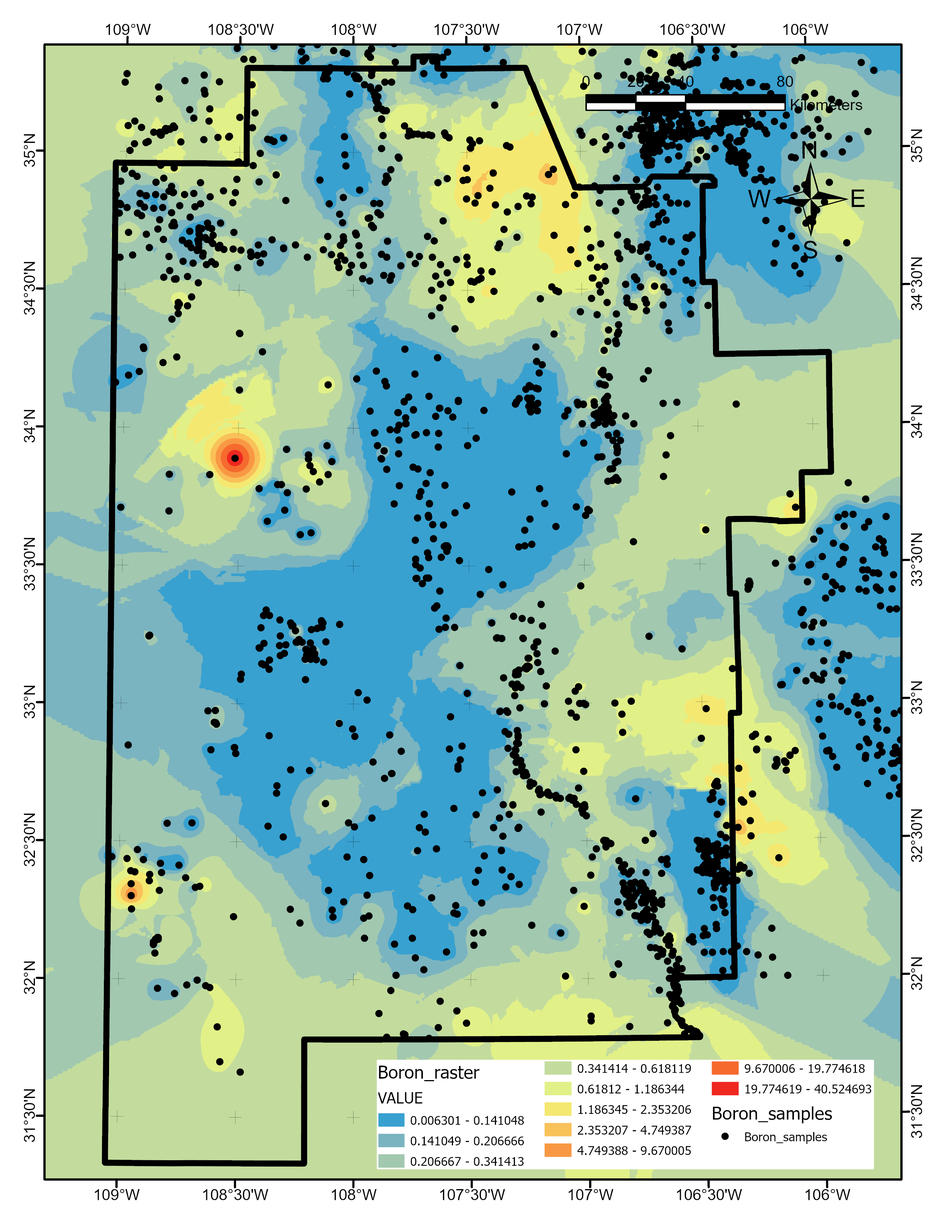
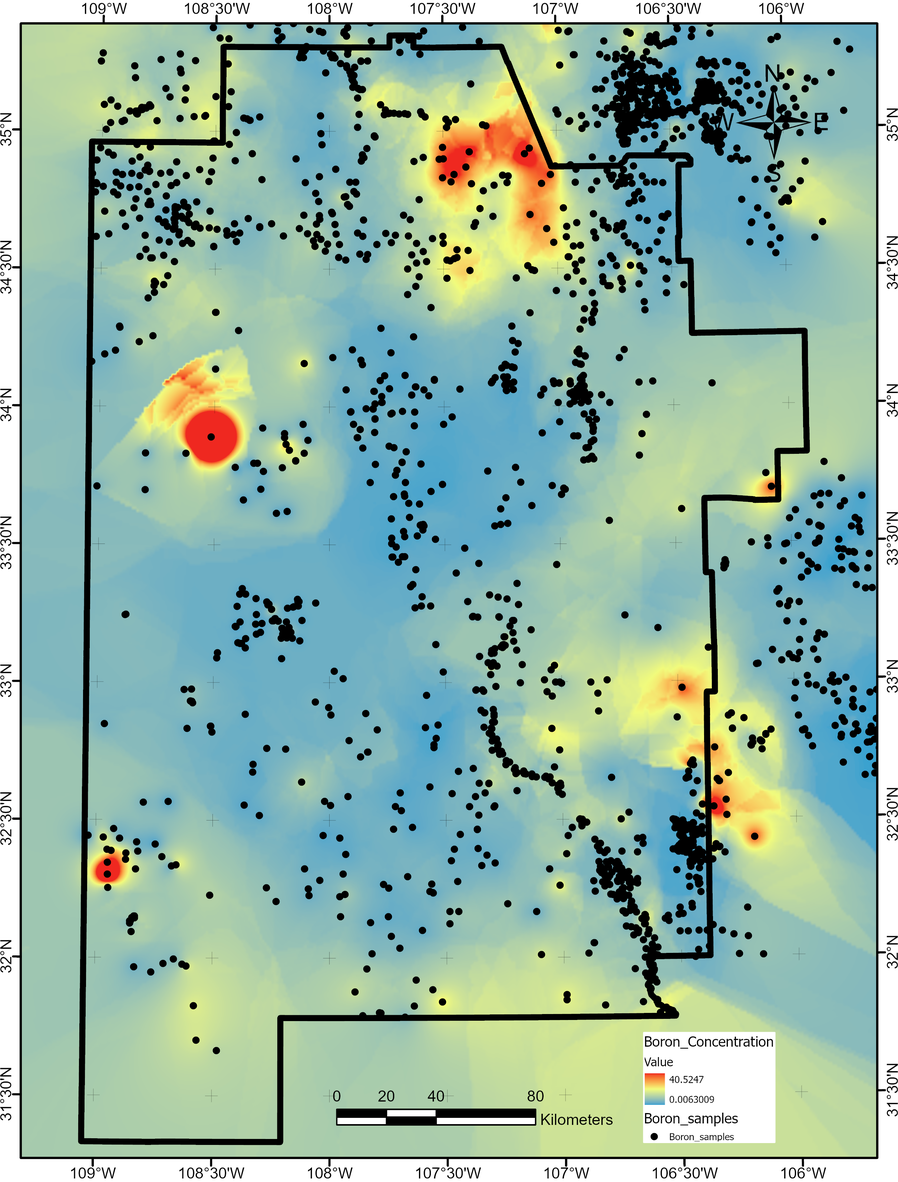
added more features to the data prep section.

diff --git a/templates/chap3.tex b/templates/chap3.tex
@@ -50,8 +50,8 @@ The University of Oregon PRISM Climate Group hosts regularly-updated spatial dat
 
 \begin{figure}[!htp]
 \centering
-\includegraphics[scale=.6]{Figure-AvgAirTemp}
-\caption[Average air temperature data layer]{Average air temperature data layer. Units are degrees Celsius. Data retrieved from \protect\citep{prism_prism_2021}.}
+\includegraphics[scale=.50]{Figure-AvgAirTemp}
+\caption[Average air temperature data layer]{Average air temperature data layer. Units are in degrees Celsius. Data retrieved from \protect\citep{prism_prism_2021}.}
 \label{fig:feat_airtemp}
 \end{figure}
 
@@ -61,8 +61,8 @@ The University of Oregon PRISM Climate Group also compiles 30-year normals for a
 
 \begin{figure}[!htp]
 \centering
-\includegraphics[scale=.6]{Figure-AvgPrecip}
-\caption[Average precipitation data layer]{Average precipitation data layer in 800 m resolution. Units are millimeters. Data retrieved from \protect\citep{prism_prism_2021}.}
+\includegraphics[scale=.50]{Figure-AvgPrecip}
+\caption[Average precipitation data layer]{Average precipitation data layer in 800 m resolution. Units are in millimeters. Data retrieved from \protect\citep{prism_prism_2021}.}
 \label{fig:feat_precip}
 \end{figure}
 
@@ -72,29 +72,145 @@ Following the procedure of \citeauthor{pepin_new_2018} (\citeyear{pepin_new_2018
 
 \begin{figure}[h!]
 \centering
-\includegraphics[scale=.6]{Figure-BasementDepth}
-\caption[Basement depth data layer]{Basement depth data layer. Units are meters. Layer based on basement elevation raster from \protect\citep{bielicki_hydrogeolgic_2015}.}
+\includegraphics[scale=.50]{Figure-BasementDepth}
+\caption[Basement depth data layer]{Basement depth data layer. Units are in meters. Layer based on basement elevation raster from \protect\citep{bielicki_hydrogeolgic_2015}.}
 \label{fig:feat_basementdepth}
 \end{figure}
 
 \subsubsection{Boron Concentration}
 
-Measurements of boron concentration were originally assembled by \citeauthor{bielicki_hydrogeolgic_2015} (\citeyear{bielicki_hydrogeolgic_2015}) from nine sources ranging from USGS records to student dissertations. These data were downloaded from the OpenEI submission \citep{kelley_geothermal_2015} and imported into ArcGIS, then merged into a single dataframe of 5686 measurements within the broader Extent Polygon bounds to avoid edge effects within the AOI. The inconsistent spatial distribution of the data and sometimes significant variation among overlapping values from different measurement years created a unique challenge for making a representative GIS layer to use for analysis. An initial attempt to fit and interpolate the data using tuned Gaussian Process models created feature layers with too much local structure and little character away from the input data points. The ArcGIS \textit{Empirical Bayes Kriging} routine was selected instead due to its unique characteristics. For the final layer (Figure \ref{fig:feat_boron}), EBK was applied with the Empirical data transformation type, a maximum of 100 points in each local model, 100 simulated semivariograms with K-Bessel model type, and a standard circular search neighborhood with a radius of 1.1957 (auto-generated), minimum of 10 neighbors, and maximum of 15 neighbors. The output grid cell size was set to 0.01 degrees. Of important note: the calculation option to include all coincident data was selected, so all overlapping measurements were considered in generating the final layer.
+Measurements of boron concentration were originally assembled by \citeauthor{bielicki_hydrogeolgic_2015} (\citeyear{bielicki_hydrogeolgic_2015}) from multiple sources ranging from USGS records to student dissertations. These data were downloaded from the OpenEI submission \citep{kelley_geothermal_2015} and merged together using ArcGIS and Python to create a single dataframe of 5686 measurements, all within the broader Extent Polygon bounds to avoid surface creation edge effects within the tighter AOI. The inconsistent spatial distribution of the data and sometimes significant variation among overlapping values from different measurement years created a unique challenge for making a representative GIS layer to use for analysis. An initial attempt to fit and interpolate the data using tuned Gaussian Process models created feature layers with too much local structure and little character away from the input data points. The ArcGIS \textit{Empirical Bayes Kriging} routine was selected instead due to its unique characteristics. For the final layer, EBK was applied with the Empirical data transformation type, a maximum of 100 points in each local model, 100 simulated semivariograms with K-Bessel model type, and a standard circular search neighborhood with a radius of 1.1957 (auto-generated), minimum of 10 neighbors, and maximum of 15 neighbors. The output grid cell size was set to 0.01 degrees. Of important note: the calculation option to include all coincident data was selected, so all overlapping measurements were considered in generating the final layer (Figure \ref{fig:feat_boron}).
 
-\begin{figure}[h!]
+\begin{figure}[!htp]
 \centering
-\includegraphics[scale=.6]{Figure-Boron}
-\caption[Boron concentration data layer]{Boron concentration data layer. Units in ppm or mg/L. Black dots indicate sample locations in complete data set from \protect\citep{bielicki_hydrogeolgic_2015}.}
+\includegraphics[scale=.50]{Figure-Boron}
+\caption[Boron concentration data layer]{Boron concentration data layer. Units are in ppm or mg/L. Black dots indicate sample locations in complete data set from \protect\citep{bielicki_hydrogeolgic_2015}.}
 \label{fig:feat_boron}
 \end{figure}
 
 \subsubsection{Crustal Thickness}
 
-In the absence of a recent 3D seismic survey constraining crustal thickness in the study area, the 2.5D regional map published by \citeauthor{keller_comparative_1991} (\citeyear{keller_comparative_1991}) was used for the crustal thickness feature layer. Similar to the procedure described in \citep{pepin_new_2018}, the Keller map was georeferenced in ArcGIS, and thickness contours were manually digitized as polylines. These polylines continued slightly beyond the AOI boundary to ensure proper constraints for surface creation without artifacts near the AOI edges. The ArcGIS function \textit{Feature to 3D by Attribute} converted the polylines into 3D contours, and \textit{Topo to Raster} generated a continuous final grid (Figure \ref{fig:feat_crust}). Since the Keller map was derived from low-resolution seismic lines from the 1960s-1980s, the result is a very low frequency approximation for crustal thickness variations associated with the CP and RGR. As such, \textit{Topo to Raster} used an output cell size of 0.025 degrees. Other parameters include: margin in the cells of 20, smallest z value for interpolation of 25, largest z value for the interpolation of 55, Enforce selection for drainage enforcement, and maximum iterations of 20.
+In the absence of a more recent seismic study constraining variations in crustal thickness across the study area, the 2.5D regional map published by \citeauthor{keller_comparative_1991} (\citeyear{keller_comparative_1991}) was to construct the crustal thickness feature layer. Similar to the procedure described in \citep{pepin_new_2018}, the Keller map was georeferenced in ArcGIS, and thickness contours were manually digitized as polylines. These polylines continued slightly beyond the AOI boundary to ensure proper constraints for surface creation without artifacts near the AOI edges. The ArcGIS function \textit{Feature to 3D by Attribute} converted the polylines into 3D contours, and \textit{Topo to Raster} interpolated the contours into a continuous final grid (Figure \ref{fig:feat_crust}). Since the Keller map was derived from low-resolution seismic lines from the 1960s-1980s, the result is a very low frequency approximation for crustal thickness variations associated with the CP and RGR. As such, \textit{Topo to Raster} a larger cell size of 0.025 degrees was used. Other parameters choices include: margin in the cells of 20, smallest z value for interpolation of 25, largest z value for the interpolation of 55, Enforce selection for drainage enforcement, and maximum iterations of 20.
 
 \begin{figure}[!htp]
 \centering
-\includegraphics[scale=.6]{Figure-CrustalThickness}
-\caption[Crustal thickness data layer]{Crustal thickness data layer. Units in kilometers. Black lines refer to contours digitized from \protect\citep{keller_comparative_1991}.}
+\includegraphics[scale=.50]{Figure-CrustalThickness}
+\caption[Crustal thickness data layer]{Crustal thickness data layer. Units are in kilometers. Black lines refer to contours digitized from \protect\citep{keller_comparative_1991}.}
 \label{fig:feat_crust}
+\end{figure}
+
+\subsubsection{Drainage Density}
+
+Drainage polyline data comes from the \citep{bielicki_hydrogeolgic_2015} PFA OpenEI submission \citep{kelley_geothermal_2015}. The data were downloaded and imported into ArcGIS, then compared to the DEM later for quality control. A couple of methods were attempted in order to transform this feature into a continuous-valued layer with full map coverage. First, the polylines were converted to points with 500 m sampling. This point set was loaded into a Python script, which used a grid search routine to determine the best radius for a Gaussian kernel density operator. Ten-fold cross validation was employed, which splits the data into 10 subsets and interchangeably trains on 9, tests on one to get an average performance score. Based on a calculation of the negative log likelihood, the best radius was found to be 45,600 m. However, when the kernel density operation is applied to the data with this radius, the map shows a central blob of high density, which falls off toward the sides of the survey. With such a high radius, edge effects come into play since no drainage polylines were available outside of the AOI boundary. Furthermore, the conversion of line data to points for this method disregards the spatial relationships of the connected line data. The ArcGIS version of kernel density uses an adapted quartic kernel function described by \citep{silverman_density_2018} to fit a smoothly-curved surface over polylines with a maximum value over the line and sides that taper to zero based on the search radius. Default search radius values come from a bandwidth calculation, also based on Silverman book \citep{esri_how_2021,silverman_density_2018}. Densities are calculated as the cumulative sum of the overlapping curve fits for all polylines in a data set. This method operates on the polyline features directly and results in a map with much more drainage variation within the AOI. The final drainage density layer (Figure \ref{fig:feat_drainage}) was generated using this methodology with an output cell size of 0.0025 degrees and an auto-generated search radius of 0.2716.
+
+\begin{figure}[!htp]
+\centering
+\includegraphics[scale=.50]{Figure-Drainage}
+\caption[Drainage density data layer]{Drainage density data layer. Units are in degrees/square degrees. Blue lines show the drainage polyline data set from \protect\citep{bielicki_hydrogeolgic_2015}.}
+\label{fig:feat_drainage}
+\end{figure}
+
+\subsubsection{Earthquake Density}
+
+Following the procedure outlined by \citeauthor{pepin_new_2018} (\citeyear{pepin_new_2018}), an earthquake data set for southwest New Mexico was created by combining historical earthquake catalogs for 1869-1998 \citep{sanford_earthquake_2002}, 1999-2004 \citep{sanford_earthquake_2006}, and 2005-2009 \citep{pursley_earthquake_2013} with data pulled from the USGS Earthquake catalog \citep{usgs_earthquake_2021} through to January 2021. All events were combined into a single dataframe in Python, and event duplicates were removed. The final catalog, cropped to the Extent Polygon boundary, consists of 2539 events spanning 1962-2020. This point set was loaded into a KDE Python script, which used a grid search routine to determine the best radius for a Gaussian kernel density operator. Ten-fold cross validation was employed, which splits the data into 10 subsets and then interchangeably trains on 9 and tests on one to get an average performance score. The maximum negative log likelihood indicates a best radius value of 11,600 m (Figure \ref{fig:EQ_cv}). 
+
+\begin{figure}[!htp]
+\centering
+\includegraphics[scale=.50]{templates/images/Figure-Earthquake_kde_gridsearchcv_result.png}
+\caption[Earthquake density parameter tuning]{Cross-validation results for earthquake KDE. Red dashed line indicates maximum negative log likelihood value identifying the best choice for kernel radius.}
+\label{fig:EQ_cv}
+\end{figure}
+
+KDE values calculated at each fishnet point location were loaded into ArcGIS, and \textit{Kriging} was used to generate a final surface for plotting purposes. textit{Kriging} parameters included Ordinary kriging method, Spherical semivariogram model, lag size of 1e-6, and a variable search radius with 12-point requirement. The final earthquake density map (Figure \ref{fig:feat_EQ_density}) appears similar to Figure 3.10 in (Pepin, 2018). 
+
+\begin{figure}[!htp]
+\centering
+\includegraphics[scale=.50]{Figure-EarthquakeDensity}
+\caption[Earthquake density data layer]{Earthquake density data layer. Units are in log density (points/\(km^2\)). Block dots indicate earthquake locations.}
+\label{fig:feat_EQ_density}
+\end{figure}
+
+\subsubsection{Gamma Ray Dose Rate}
+
+Aerial gamma-ray surveys conducted across the United States in the late 1970-1980s allowed for the construction of Potassium concentration (K, in percent K), Uranium concentration (eU, in ppm), and Thorium concentration (eTh in ppm) maps, which relate to mineralogy, lithology, and hence, stratigraphy. These measures collectively define the absorbed dose rate, which can be calculated from the following equation: \( D = 13.2 K + 5.48 eU + 2.72 eTh \) \citep{duval_terrestrial_2005}.
+
+The absorbed dose rate for West Central USA was downloaded from the USGS Open-File Report 2005-1413 site \citep{duval_terrestrial_2005}, loaded into ArcGIS, and cropped to the Extent Polygon bounds. A data gap in the vicinity of the White Sands Missile Range to the southeast of the study area necessitated layer interpolation using kriging. Grid values were extracted using the fishnet of points, then passed through the ArcGIS \textit{Kriging} function for the final layer (Figure \ref{fig:feat_gamma}) with the following parameters: Ordinary kriging method, Spherical semivariogram model, auto-generated lag size of 0.096969, and a variable search radius with a 4-point requirement.
+
+\begin{figure}[!htp]
+\centering
+\includegraphics[scale=.50]{templates/images/Figure-AbsorbedDoseRate.png}
+\caption[Absorbed dose rate data layer]{Absorbed dose rate data layer. Units are in nanoGrays/hour (nGy/hr). Original data from USGS Open-File Report 2005-1413 \protect\citep{duval_terrestrial_2005}}.
+\label{fig:feat_gamma}
+\end{figure}
+
+\subsubsection{Geodetic Strain Rate}
+
+GPS stations worldwide record local movements in the Earth’s crust. These movements can highlight inflation or subsidence of the surface, fault motions, or plate tectonic activity. The spatial derivative of crustal velocities is termed the strain rate, which gives an indication of the accumulation of strain in an area. More concretely, it defines the speed with which the crust is deforming, and can be treated as a proxy for earthquake potential since slip occurs due to the accumulation of strain \citep{gem_strain_2014}. The Global Strain Rate Model (GSRM) v.2.1 provides a model for strain rate based on over 22,000 measurements from over 18,000 locations around the world \citep{kreemer_geodetic_2014}. The output of this model was downloaded from the University of Nevada Reno Geodetic Laboratory host site \citep{kreemer_corne_global_2020}. GSRM describes elements of the full strain tensor at a resolution 0.1 degrees. The magnitude or second invariant of the strain tensor is defined as \citep{kreemer_geodetic_2014}:
+
+\begin{equation}\label{eq:strainratemagnitude}
+\left\lVert\dot{\epsilon}\right\rVert = \sqrt{\dot{\varepsilon}_{\phi\phi}^2+\dot{\varepsilon}_{\theta\theta}^2+2\dot{\varepsilon}_{\phi\theta}^2}
+\end{equation}
+
+Due to the size of the model file and complexity of this calculation, the data was first loaded into Python, cropped to the Extent Polygon bounds, and the strain rate magnitude was calculated for each point. These data were then loaded into ArcGIS and gridded using the \textit{Spline} function for a smooth interpolation of the coarser GSRM grid. The final layer (Figure \ref{fig:feat_strain}) was created using \textit{Spline} parameters: Regularized type, weight of 0.1, a 4-point requirement, and an output cell size of 0.025 degrees.
+
+\begin{figure}[!htp]
+\centering
+\includegraphics[scale=.50]{templates/images/Figure-StrainRate.png}
+\caption[Geodetic strain rate data layer]{Geodetic strain rate data layer. Units are in \(10^-9 m/(m*yr)\). Layer is based on data from \protect\citep{kreemer_geodetic_2014}}.
+\label{fig:feat_strain}
+\end{figure}
+
+\subsubsection{Gravity Anomaly}
+
+Terrain-corrected gravity anomaly data available from the University of Texas El Paso \citep{utep_gravity_2011} were used in both the southwest NM PFA analysis \citep{bielicki_hydrogeolgic_2015} and cluster analysis \citep{pepin_new_2018}. The data layer from \citeauthor{bielicki_hydrogeolgic_2015} was downloaded from their OpenEI submission \citep{kelley_geothermal_2015} and loaded into ArcGIS. The layer (Figure \ref{fig:feat_gravity}) required no further processing.
+
+\begin{figure}[!htp]
+\centering
+\includegraphics[scale=.50]{templates/images/Figure-GravityAnomaly.png}
+\caption[Gravity anomaly data layer]{Gravity anomaly data layer. Units are in milligals (mGal). Raster originally created by \protect\citet{bielicki_hydrogeolgic_2015}.}.
+\label{fig:feat_gravity}
+\end{figure}
+
+\subsubsection{Gravity Anomaly Gradient}
+
+Gradient of the gravity anomaly was calculated using the ArcGIS Slope function on the final gravity anomaly raster. Parameters used to create the final layer (Figure \ref{fig:feat_gravity_gradient} include: Geodesic method, Z unit of meters, and output measurement of degrees.
+
+\begin{figure}[!htp]
+\centering
+\includegraphics[scale=.50]{templates/images/Figure-GravityGradient.png}
+\caption[Gravity anomaly gradient data layer]{Gravity anomaly gradient data layer. Units are in mGal/degrees.}.
+\label{fig:feat_gravity_gradient}
+\end{figure}
+
+\subsubsection{Heat Flow}
+
+The recent $0.5^\circ$ x$0.5^\circ$ resolution heat flow model from \citet{lucazeau_analysis_2019} offers coarse coverage across the southwest NM AOI. The model output was downloaded from the supporting information section of the publication page \citep{lucazeau_analysis_2019}, loaded into ArcGIS, and cropped to the Extent Polygon boundaries. After testing several gridding algorithms for a smooth representation of this sparse data, the ArcGIS \textit{Topo to Raster} function produced the best results. The final layer (Figure \ref{fig:feat_heatflow}) parameters include: tolerance 1 of 2.5, tolerance 2 of 100, drainage enforcement set to Enforce, Contour selected for primary type of input data, and output cell size of 0.01. 
+
+\begin{figure}[!htp]
+\centering
+\includegraphics[scale=.50]{templates/images/Figure-HeatFlow.png}
+\caption[Heat flow data layer]{Heat flow data layer. Units are in W/m-K. Original data from \protect\citep{lucazeau_analysis_2019}.}.
+\label{fig:feat_heatflow}
+\end{figure}
+
+\subsubsection{Lithium Concentration}
+
+Measurements of Lithium concentration were originally assembled by \citet{bielicki_hydrogeolgic_2015} from several sources ranging from USGS records to student dissertations. These data were downloaded from the OpenEI submission \citep{kelley_geothermal_2015} and merged together using ArcGIS and Python to create a single dataframe of 3595 measurements, all within the broader Extent Polygon bounds to avoid surface creation edge effects within the tighter AOI. As described for the Boron concentration data layer, attempts to model Lithium concentration using Gaussian Processes provided unsatisfactory results. Instead, the final layer was generated using the ArcGIS \textit{Empirical Bayes Kriging} routine. Selected parameters include: Empirical data transformation type, a maximum of 100 points in each local model, 100 simulated semivariograms with K-Bessel model type, and a standard circular search neighborhood with a radius of 1.1957 (auto-generated), minimum of 10 neighbors, and maximum of 15 neighbors. The output grid cell size was set to 0.01 degrees. All coincident data was included in the calculation, so any overlapping measurements were considered in generating the final layer (Figure \ref{fig:feat_lithium}).
+
+\begin{figure}[!htp]
+\centering
+\includegraphics[scale=.50]{templates/images/Figure-Lithium.png}
+\caption[Lithium concentration data layer]{Lithium concentration data layer. Units in ppm or mg/L. Black dots indicate sample locations in complete data set from \protect\citep{bielicki_hydrogeolgic_2015}}.
+\label{fig:feat_lithium}
+\end{figure}
+
+\subsubsection{Water Table Depth}
+
+\citeauthor{bielicki_hydrogeolgic_2015} (\citeyear{bielicki_hydrogeolgic_2015}) mapped the depth to water table using data from the USGS and several additional sources. This raster was downloaded from their OpenEI submission \citep{kelley_geothermal_2015} and imported into ArcGIS. Data gaps between the raster extent and AOI polygon to the south and the east necessitated extrapolation of the layer, so ArcGIS \textit{Empirical Bayes Kriging} was applied to fill in the missing edge values. After some trial-and-error, the chosen parameter values for the final layer (Figure \ref{fig:feat_wtdepth}) include an output cell size of 0.01, Empirical data transformation type, a maximum of 100 points in each local model, 100 simulated semivariograms with Exponential model type, and a standard circular search neighborhood with a radius of 1.2652 (auto-generated), minimum of 10 neighbors, and maximum of 15 neighbors.
+
+\begin{figure}[!htp]
+\centering
+\includegraphics[scale=.50]{Figure-WTDepth}
+\caption[Water table depth data layer]{Water table depth data layer. Units in feet. Adapted from raster created by \protect\citep{bielicki_hydrogeolgic_2015}.}
+\label{fig:feat_wtdepth}
 \end{figure}

diff --git a/templates/chap1.tex b/templates/chap1.tex
@@ -31,7 +31,7 @@ Lazard Asset Management breaks renewables down by \acrlong{lcoe} (\acrshort{lcoe
 \section{Upstream Commercial Pressures}\label{ch1:upstream}
 Businesses focused on \acrlong{ep} (\acrshort{ep}) of oil \& gas face a growing list of pressures influencing future corporate strategy. On one hand, the increase in energy consumption predicted in the AEO and IEO make the case for steadily ramping up production to provide plentiful supply to meet global demand. However, geopolitical tensions, state-ownership of oil companies, and breakthrough technologies create a volatile landscape unforgiving of an unsophisticated production approach. In just the past 15 years, major downturns in oil prices were triggered by a mixture of factors: the financial crisis tied to banking practices and housing market instability in 2008 \citep{singh_2007-2008_2021}, increased production from U.S.\ unconventional plays and supply decisions from the \acrlong{opec} (\acrshort{opec}) in 2014 \citep{lioudis_what_2021}, and a price war between Russia and Saudi Arabia coinciding with a global pandemic in 2020 \citep{blessing_what_2021}. Additional uncertainty comes from national oil companies that control the majority of the world’s petroleum reserves, production, and rights for exploration and development. These state-run enterprises can eschew free-market principles, favoring national priorities over efficient operations, oil field sustainability, business transparency, and maximizing shareholder value \citep{pirog_role_2007}. Meanwhile, disruptive technologies like precise directional drilling and hydrofracturing have provided access to previously cost-prohibitive reserves, changing the balance of power as countries like the U.S.\ and China become less reliant on foreign hydrocarbon imports \citep{shuen_dynamic_2014}.
 
-Layered on top of these strategic influences are the unexpected events that have enormous influence over energy production and distribution operations. The 2020 outbreak of the COVID-19 virus acted as an accelerator on longer-term trends of digital transformation and decarbonization in the oil \& gas industry. In the wake of a 25\% decrease in global demand, companies responded with massive layoffs and restructuring, a heightened focus on digitalization, and portfolio rationalizations that include shale write-downs and asset divestments \citep{deloitte_2021_2020}. Extreme weather events are presenting reflective moments on how energy is managed now and in the future. Winter storm Uri blanketed Texas in record low temperatures in February 2021, shutting down liquid fuel supply and electricity generation from natural gas, coal, nuclear, and wind-based power plants, with downstream power blackouts, water outages, and surge pricing on electricity that impacted millions \citep{harc_winter_2021,lazard_lazards_2020}. And additional threats loom in the cyberworld as malicious hacking activities have rippling social and financial implications. One such attack on Colonial Pipeline, which handles almost 50\% of the liquid fuels supplied to the U.S. East Coast, led to gasoline shortages, price spikes, chemical factory shut-downs, and worldwide news coverage until the hefty ransom was paid in May 2021 \citep{sanger_pipeline_2021}.
+Layered on top of these strategic influences are the unexpected events that have enormous influence over energy production and distribution operations. The 2020 outbreak of the COVID-19 virus acted as an accelerator on longer-term trends of digital transformation and decarbonization in the oil \& gas industry. In the wake of a 25\% decrease in global demand, companies responded with massive layoffs and restructuring, a heightened focus on digitalization, and portfolio rationalizations that include shale write-downs and asset divestments \citep{deloitte_2021_2020}. Extreme weather events are presenting reflective moments on how energy is managed now and in the future. Winter storm Uri blanketed Texas in record low temperatures in February 2021, shutting down liquid fuel supply and electricity generation from natural gas, coal, nuclear, and wind-based power plants, with downstream power blackouts, water outages, and surge pricing on electricity that impacted millions \citep{harc_winter_2021,lazard_lazards_2020}. And additional threats loom in the cyberworld as malicious hacking activities have rippling social and financial implications. One such attack on Colonial Pipeline, which handles almost 50\% of the liquid fuels supplied to the U.S. East Coast, led to gasoline shortages, price spikes, chemical factory shut-downs, and worldwide news coverage until the \$5 million ransom was paid in May 2021 \citep{sanger_pipeline_2021}.
 
 \section{Net Zero Ambitions}\label{ch1:netzero}
 The 2015 Paris climate agreement set a target of $<2^\circ$C on the rise in global temperatures above the pre-industrial average (i.e., the period from 1850-1900) to prevent the most extreme model-predicted impacts of climate change \citep{unfccc_paris_2015}. The more commonly-ascribed $1.5^\circ$C target may be unachievable given current trajectories, and international calls to action focus on reducing anthropogenic carbon dioxide emissions to “net zero” as quickly as possible \citep{ipcc_global_2018}. Greater public awareness and discussion about these targets put pressure on the energy industry to revise their traditional business models. Beginning in 2020, top-tier oil and gas companies started issuing press releases outlining energy transition targets for 2025, 2030, 2050, and beyond \citep{bp_international_2020,chevron_chevron_2021,conocophillips_conocophillips_2020,equinor_equinor_2020,exxonmobil_exxonmobil_2021,shell_responsible_2020,shell_shell_2021,total_total_2020,total_2020_2021}. The proposed strategies vary but generally focus on (i) reducing company stake in fossil fuel exploration and production activities, (ii) setting a net-zero target applicable to emissions from operations, product carbon intensity, and carbon offsets, and (iii) dedicating investments in low and no-carbon energy alternatives to replace hydrocarbons. Nevertheless, pressure to do more, faster reached a new peak in May 2021; a court decision in The Netherlands and shareholder votes for two U.S.\ majors demanded an accelerated push toward emissions reductions and low-carbon energy options \citep{mcwilliams_investors_2021}.
